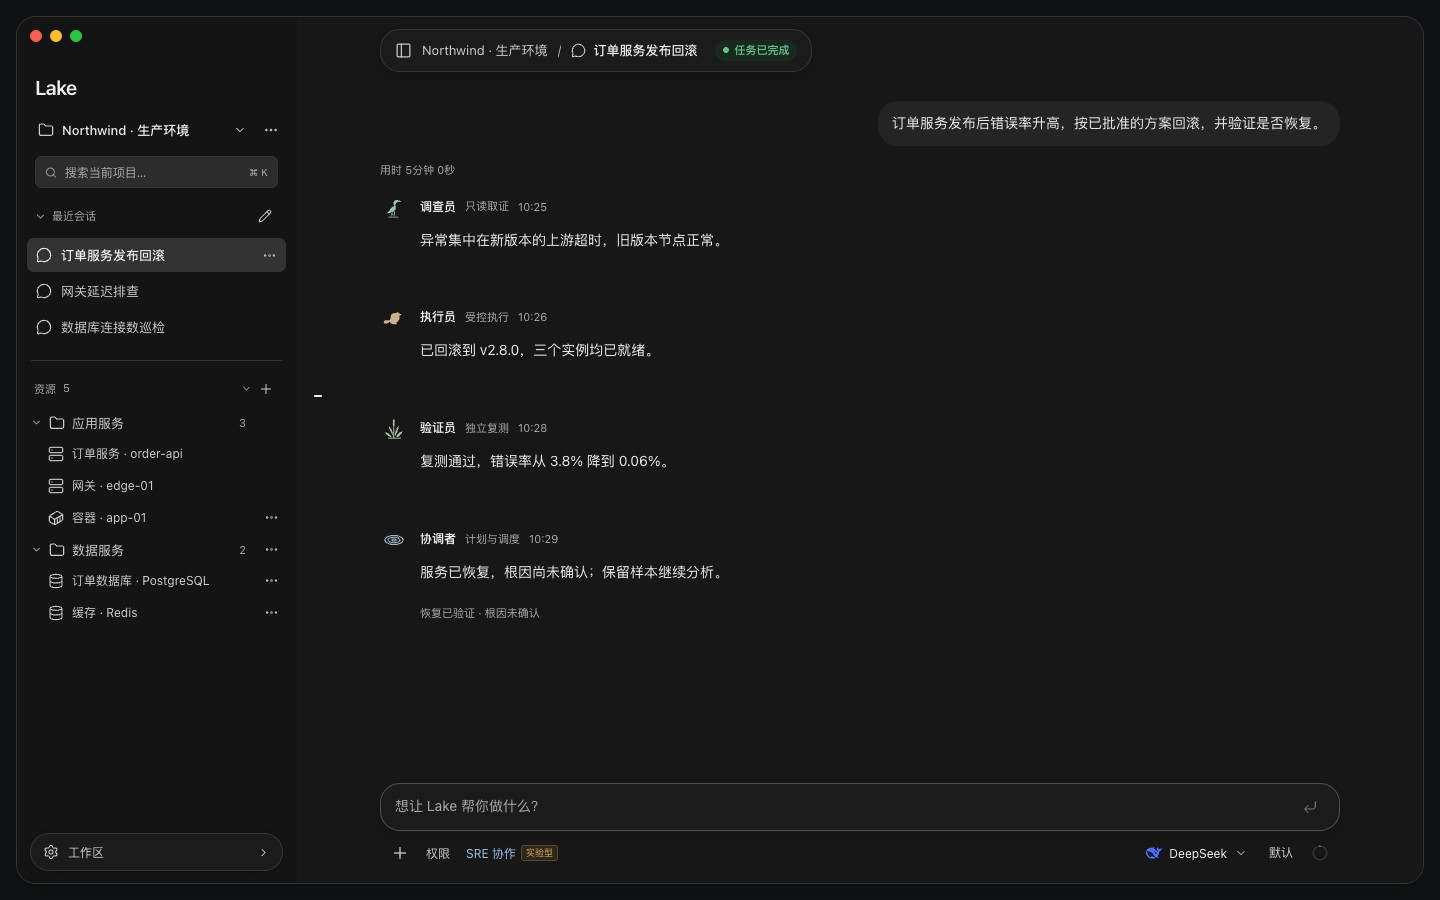
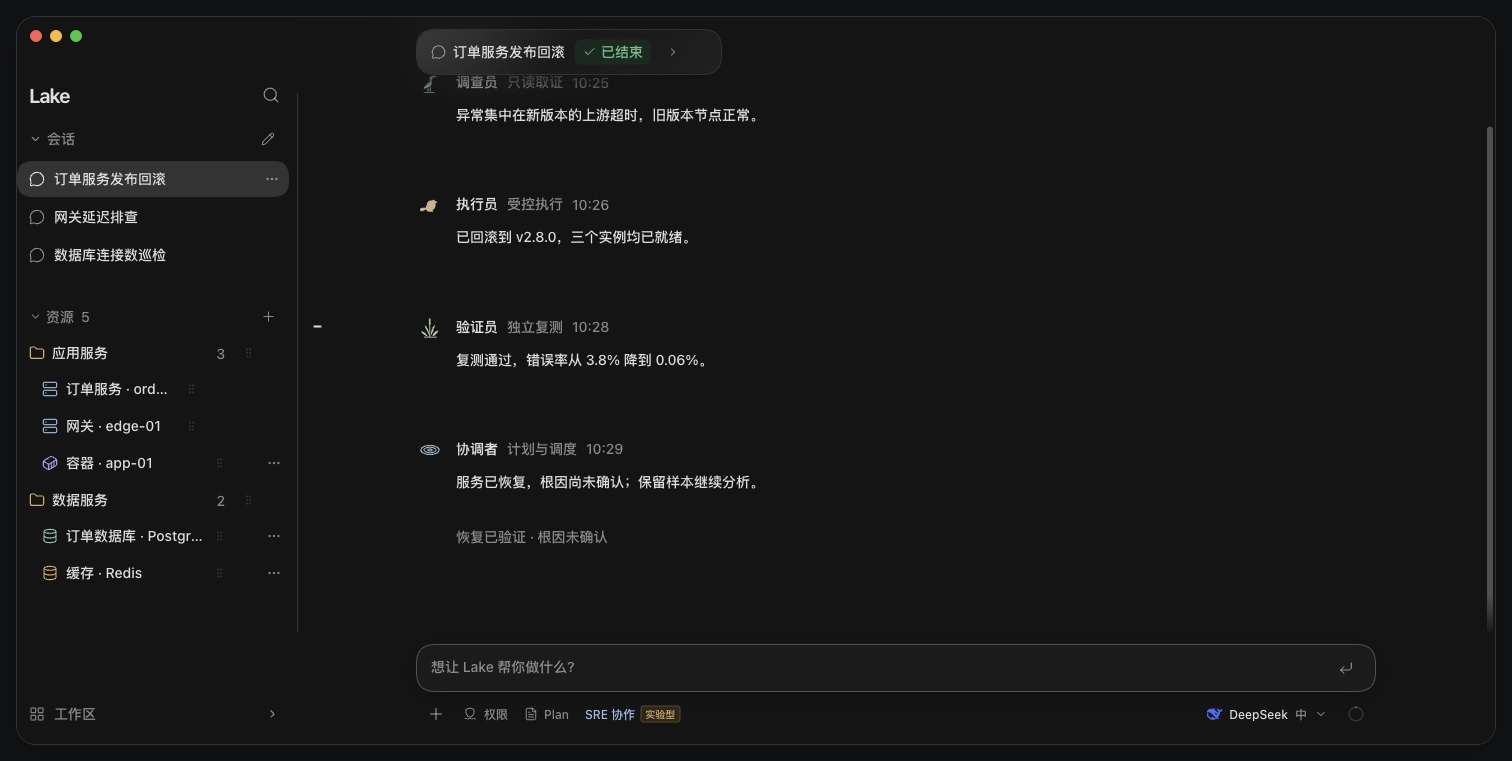
chore: prepare v0.3.23 macOS release (#132)
* chore: prepare macOS v0.3.23 and refresh README screenshots

* docs: record exact screenshot dimensions

diff --git a/client/macos/RELEASE_NOTES.md b/client/macos/RELEASE_NOTES.md
@@ -1,19 +1,15 @@
-Lake v0.3.22：资源管理、初始化体验与会话操作更新。
+Lake v0.3.23 · macOS Apple Silicon
 
-- 新建资源支持 SSH 主机和 Kubernetes。K8s 可选择 Kubeconfig 文件或粘贴配置，支持 Context、命名空间、CA 和客户端证书；可测试连接，并在会话中直接查询集群、节点、Pod、事件与有界日志。其他新增服务类型暂以灰色禁用选项展示。
-- 同层目录默认排在独立资源前，优化拖动排序、移入目录、悬停展开、边缘滚动和键盘操作；会话排序与置顶顺序可持久保存。
-- 首次使用页改用 Lake 山水 Logo 与简洁的模型连接、项目创建入口；侧栏保留文字品牌。用户消息悬停显示复制按钮，保留引用名称、空白与换行，键盘和触摸均可使用。
-- 优化模型与思考强度选择、统一工作台字体和主题、权限面板与文件预览。支持会话 Plan 制定、审核后执行，以及回复中的资源、文件和计划引用。
-- 执行进度按真实资源类型显示图标，修复多行文字和加载标记重叠；历史待核实操作保留审计，同一调用防止重放，后续独立命令按当前权限执行。
-- 项目记忆与用户资产使用范围、来源审核和复用反馈更明确；策略资产与后台学习标为实验功能，默认门禁和独立预算继续生效，不将未验证候选描述为有效优化。
-- SSH 文件操作与终端共用主机指纹确认，修复主机检查的目标传递和快速连接失败时的诊断保留，保持凭据与 Dev / 正式版数据隔离。
-- 修复 Windows 本地只读 HTTP 查询找不到内置 curl 的问题；从当前终端的 Git 运行目录解析程序，保留请求边界和远端 SSH 执行方式。
+- 调整工作区侧栏、输入框引用与光标，精简回复耗时及执行状态展示；计划与执行收进悬浮检查卡片，执行详情默认跟随最新轮次。
+- 改善长任务继续、运行中补充消息接入、任务目标绑定与 Kubernetes 受控操作。
+- 统一 Web / stdio 的 Home 与运行账本，增加独占 owner、存储身份和 reader 检查，保留旧操作证据与防重保护。
+- 修复初始安全迁移中断导致工作区只能查看的问题，提供离线受控单库续跑；未知操作不会被批量判为成功或自动重放。
+- 更新 README 浅色/深色演示截图与 Lake Security 五模块设计、七条内置 SOP 规划。完整任务级授权、孤儿租约治理及 SOP 清单界面仍在实施中。
 
 ## 下载与安装
 
-- macOS：Apple Silicon（M 系列）arm64，要求 macOS 13+。提供 DMG、ZIP 和 SHA-256 校验文件。
-- Windows：Intel / AMD x86_64，要求 Windows 10 1809+ 或 Windows 11。提供安装 EXE、免安装 ZIP 和 SHA-256，内置 Bash 与 SSH，无需 Node.js 或 WSL。缺少 WebView2 Runtime 时，安装器验证 Microsoft 签名后安装官方运行环境，此步骤需要联网。
+本次仅发布 macOS Apple Silicon（M 系列）arm64，要求 macOS 13+。提供 ZIP、DMG 及 SHA-256 校验文件；不提供 Windows 包。
 
-更新保留现有模型配置、会话、资源和凭据。资源类型约束扩充前生成 SQLite 备份；降级前应备份当前数据并评估新增资源的兼容性。请先完成当前操作，应用重启会关闭终端连接，不自动重放历史命令。K8s 仅开放受控只读查询，不开放集群写入或 Secret 读取。
+更新前请结束当前操作并备份数据。已有会话、资源和凭据继续保留；初始迁移异常时先保全账本并停止对应后端，再按实际状态使用离线恢复命令，不删除控制文件或重放未知操作。新存储协议不支持直接降级到不认识 reader guard 的旧版本。
 
-macOS 包沿用持久 Lake Local Development Code Signing 证书，尚未使用 Apple Developer ID 公证；自动更新要求相同签名证书。Windows 应用未配置 Authenticode 签名。
+macOS 包沿用 Lake Local Development Code Signing 持久证书，尚未使用 Apple Developer ID 公证；自动更新要求相同签名证书。

diff --git a/docs/images/README.md b/docs/images/README.md
@@ -2,7 +2,7 @@
 
 `wechat.svg` is the WeChat logo from [SuperTinyIcons](https://github.com/edent/SuperTinyIcons/blob/master/images/svg/wechat.svg), distributed under the [MIT license](wechat.LICENSE). It is stored locally for the README contact section.
 
-`lake-workbench-light.jpg` and `lake-workbench-dark.jpg` show the Lake v0.3.21 macOS workspace from master commit `8a0f63962e4d110b8eb20eaacc464a9ca63d77cb` in light and dark themes, with the red, yellow and green window controls.
+`lake-workbench-light.jpg` and `lake-workbench-dark.jpg` show the Lake v0.3.23 release candidate workspace from develop commit `72048c775a1d6abe82fabdd1b664e095b34353f5` in light and dark themes, with the red, yellow and green window controls.
 
 These are browser-rendered presentation images of the actual React App with a standard macOS window frame, not unmodified native OS captures. Native automation overlays obscured the system window controls, so the presentation frame is rendered by the isolated fixture. The workspace, components, icons and theme come from the current application; the frame does not change shipping UI.
 
@@ -10,4 +10,6 @@ Capture fixture: `web-agent/web/test/fixtures/readme-macos.html`, extending the 
 
 To reproduce this release preview, extract `web-agent/` from the source commit above into a temporary directory, install its locked dependencies, and run the following command from that directory. This keeps newer develop UI out of the production README. No Go backend or Lake home is required.
 
-Run the Vite frontend with `npm --prefix web-agent run dev:web -- --host 127.0.0.1 --port 5194 --strictPort`, then capture `/test/fixtures/readme-macos.html?theme=light` and `?theme=dark` at **1440 × 900** with the full-page browser screenshot API (Chrome, device scale 1, JPEG quality 90, reduced motion). Expand both resource folders before capture and move the pointer out of the workspace. Stop the temporary frontend host afterward. Both `README.md` (English default) and `README.zh-CN.md` share these images; their picture elements follow the reader’s color scheme. The application UI in these screenshots remains Chinese.
+Run the Vite frontend with `npm --prefix web-agent run dev:web -- --host 127.0.0.1 --port 5194 --strictPort`, then capture `/test/fixtures/readme-macos.html?theme=light` and `?theme=dark` at the browser viewport (current captures: **1512 × 761**) with the full-page browser screenshot API (Chrome, device scale 1, JPEG quality 90, reduced motion). Expand both resource folders before capture and move the pointer out of the workspace. Stop the temporary frontend host afterward. Both `README.md` (English default) and `README.zh-CN.md` share these images; their picture elements follow the reader’s color scheme. The application UI in these screenshots remains Chinese.
+
+The v0.3.23 images capture the current React interface with both fictional resource folders expanded and the inspection card collapsed. The original browser captures are converted to JPEG quality 90; no private workspace is used.

diff --git a/README.md b/README.md
@@ -14,6 +14,7 @@ Connect resources, troubleshoot together, and keep a clear record of every actio
 
 <br>
 
+<!-- v0.3.23: current workbench, synthetic demonstration data. -->
 <picture>
   <source media="(prefers-color-scheme: dark)" srcset="docs/images/lake-workbench-dark.jpg">
   <source media="(prefers-color-scheme: light)" srcset="docs/images/lake-workbench-light.jpg">

diff --git a/README.zh-CN.md b/README.zh-CN.md
@@ -14,6 +14,7 @@
 
 <br>
 
+<!-- v0.3.23: current workbench, synthetic demonstration data. -->
 <picture>
   <source media="(prefers-color-scheme: dark)" srcset="docs/images/lake-workbench-dark.jpg">
   <source media="(prefers-color-scheme: light)" srcset="docs/images/lake-workbench-light.jpg">
